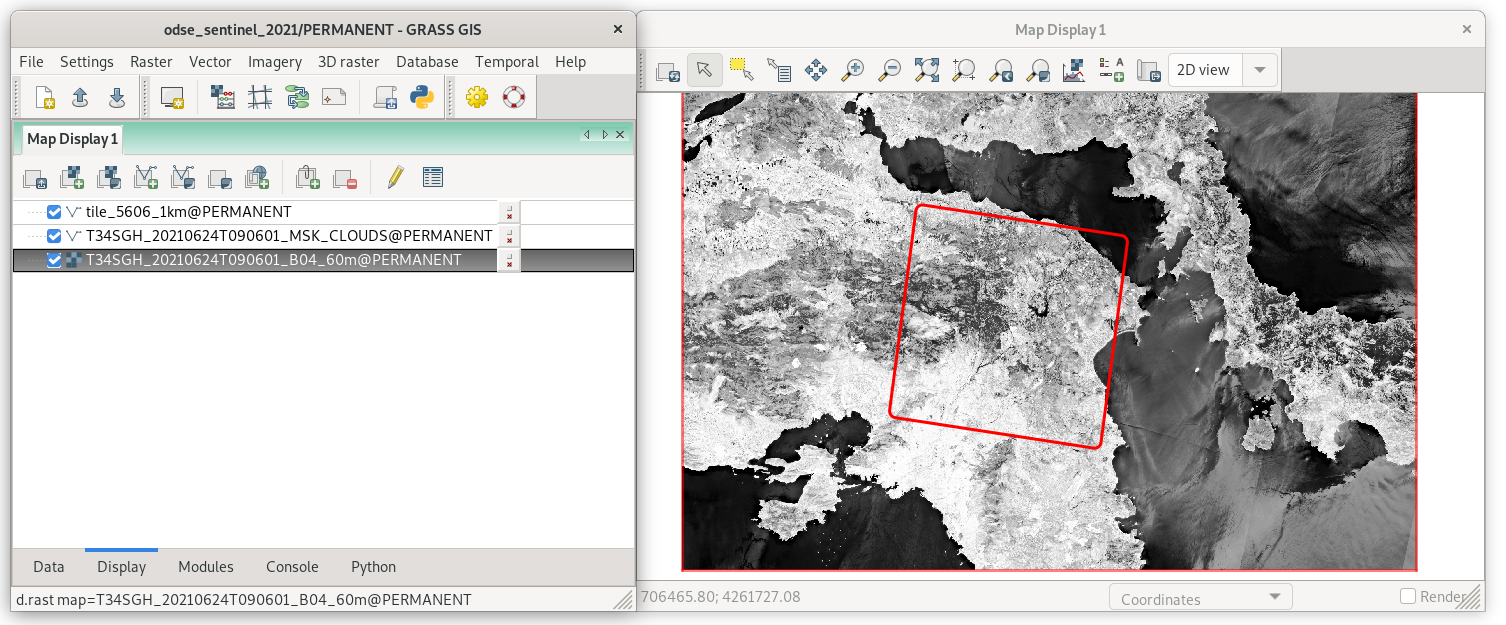
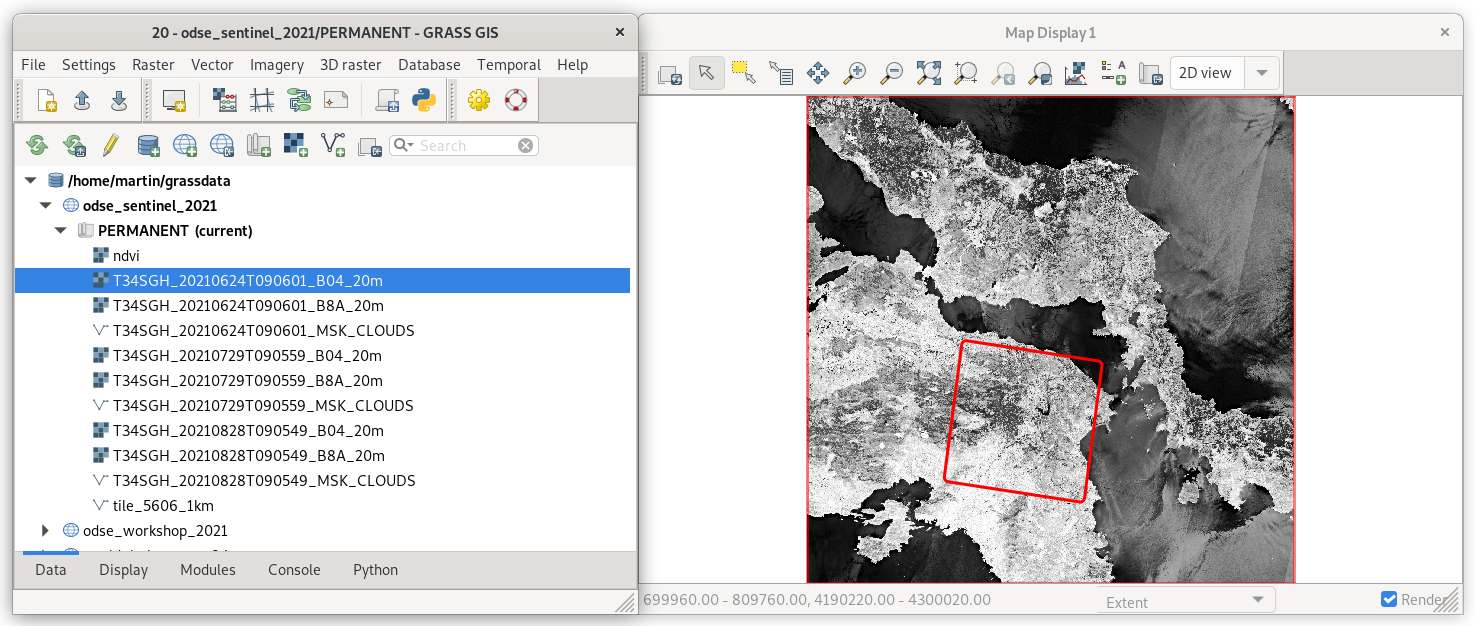
u20 updated

diff --git a/units/20.rst b/units/20.rst
@@ -1,8 +1,6 @@
 [Part 2] Accessing Sentinel EO data
 ===================================
 
-.. todo:: TO BE UPDATED
-          
 There are plenty of libraries or tools which allows downloading
 Sentinel products from `Copernicus Open Access Hub
 <https://scihub.copernicus.eu/>`__.
@@ -149,20 +147,20 @@ directory by :param:`-p` flag.
       ...
       
 In example below import procedure will be limited to 4th and 8th bands
-in 60m by :param:`pattern` option.
+in 20m by :param:`pattern` option.
 
 .. code-block:: bash
  
-   i.sentinel.import -p input=/home/odse/Downloads/t34sgh_20_60m pattern="B(04|8A)_60m"
+   i.sentinel.import -p input=/home/odse/Downloads/t34sgh_20_60m pattern="B(04|8A)_20m"
 
    ::
 
-      .../R60m/T34SGH_20210828T090549_B8A_60m.jp2 0 (EPSG: 32634)
-      .../R60m/T34SGH_20210828T090549_B04_60m.jp2 0 (EPSG: 32634)
-      .../R60m/T34SGH_20210624T090601_B04_60m.jp2 0 (EPSG: 32634)
-      .../R60m/T34SGH_20210624T090601_B8A_60m.jp2 0 (EPSG: 32634)
-      .../R60m/T34SGH_20210729T090559_B04_60m.jp2 0 (EPSG: 32634)
-      .../R60m/T34SGH_20210729T090559_B8A_60m.jp2 0 (EPSG: 32634)
+      .../R20m/T34SGH_20210828T090549_B8A_20m.jp2 0 (EPSG: 32634)
+      .../R20m/T34SGH_20210828T090549_B04_20m.jp2 0 (EPSG: 32634)
+      .../R20m/T34SGH_20210624T090601_B04_20m.jp2 0 (EPSG: 32634)
+      .../R20m/T34SGH_20210624T090601_B8A_20m.jp2 0 (EPSG: 32634)
+      .../R20m/T34SGH_20210729T090559_B04_20m.jp2 0 (EPSG: 32634)
+      .../R20m/T34SGH_20210729T090559_B8A_20m.jp2 0 (EPSG: 32634)
 
 By default input data are imported into GRASS data format,
 alternatively data can be linked if :param:`-l` is given. It is also
@@ -170,13 +168,14 @@ useful to import cloud mask vector features by :param:`-c` flag.
 
 .. code-block:: bash
 
-   i.sentinel.import -l -c input=/home/odse/Downloads/t34sgh_20_60m pattern="B(04|8A)_60m"
+   i.sentinel.import -l -c input=/home/odse/Downloads/t34sgh_20_60m pattern="B(04|8A)_20m"
 
 Lets copy our AOI (:map:`tile_5606_1km`) from *odse_workshop_2021*
 location as described in :ref:`copy-map`.
 
 .. figure:: ../images/units/20/display-band-4.png
-
+   :class: large
+           
    Visualization of 4th band. :ref:`Color table <color-table>` set to
    ``grey.eq`` (don't forget to set up computational 
    
@@ -191,16 +190,24 @@ channels are required. In the case of Sentinel-2, it refers to 4th and
         
    NDVI = (NIR - VIS) / (NIR  + VIS)
 
+Before computing let's set up computational region based on whole
+Sentinel scene.
+
+.. code-block:: bash
+
+   g.region raster=T34SGH_20210624T090601_B04_20m
+
 NDVI can be computed by :grasscmd:`i.vi` tool which allows computing
 various vegetation indices.
 
 .. code-block:: bash
 
-   i.vi red=B04_10m output=ndvi viname=ndvi nir=B08_10m
+   i.vi red=T34SGH_20210624T090601_B04_20m output=ndvi viname=ndvi nir=T34SGH_20210624T090601_B8A_20m
 
-Let's mask cloudy areas by a mask already provided by Sentinel
-product. Note that masking as other raster processing is performed
-only within the current computation region, see :doc:`04`.
+Let's mask cloudy areas by a mask created by
+:grasscmdaddons:`i.sentinel.import`. Note that masking as other raster
+processing is performed only within the current computation region,
+see :doc:`04`.
 
 ..
    .. figure:: ../images/units/05/r-mask.png
@@ -209,20 +216,9 @@ only within the current computation region, see :doc:`04`.
    
 .. code-block:: bash
 
-   r.mask -i vector=MaskFeature
+   r.mask vector=T34SGH_20210624T090601_MSK_CLOUDS -i
    
-.. note:: Cloud mask provided by Sentinel products is not perfect, but
-   it is a good starting point for us. Consider to use
-   :grasscmdaddons:`i.sentinel.mask` or Fmask tools.
-
-.. todo:: link to fmask
-
-.. tip:: Also a simple legend can be added to map display by
-   |grass-overlay-add| :sup:`Add map elements` (*Add raster legend*)
-   from Map Display toolbar.
-
-   ..
-      .. figure:: ../images/units/05/ndvi-vi.png
-         :class: middle
-
-         Final NDVI product with cloud mask applied with simple legend.
+.. figure:: ../images/units/20/ndvi-legend.png
+   :class: middle
+           
+   Final NDVI product with cloud mask applied with a legend.

diff --git a/units/05.rst b/units/05.rst
@@ -59,7 +59,9 @@ compute curvatures and partial derivatives.
 .. figure:: ../images/units/05/slope.png
    :class: middle
            
-   Slope computed from DTM in the current computational region.
+   Slope computed from DTM in the current computational region. Simple
+   legend can be added to map display by |grass-overlay-add| :sup:`Add
+   map elements` (*Add raster legend*) from Map Display toolbar.
 
 Working with a mask
 -------------------
